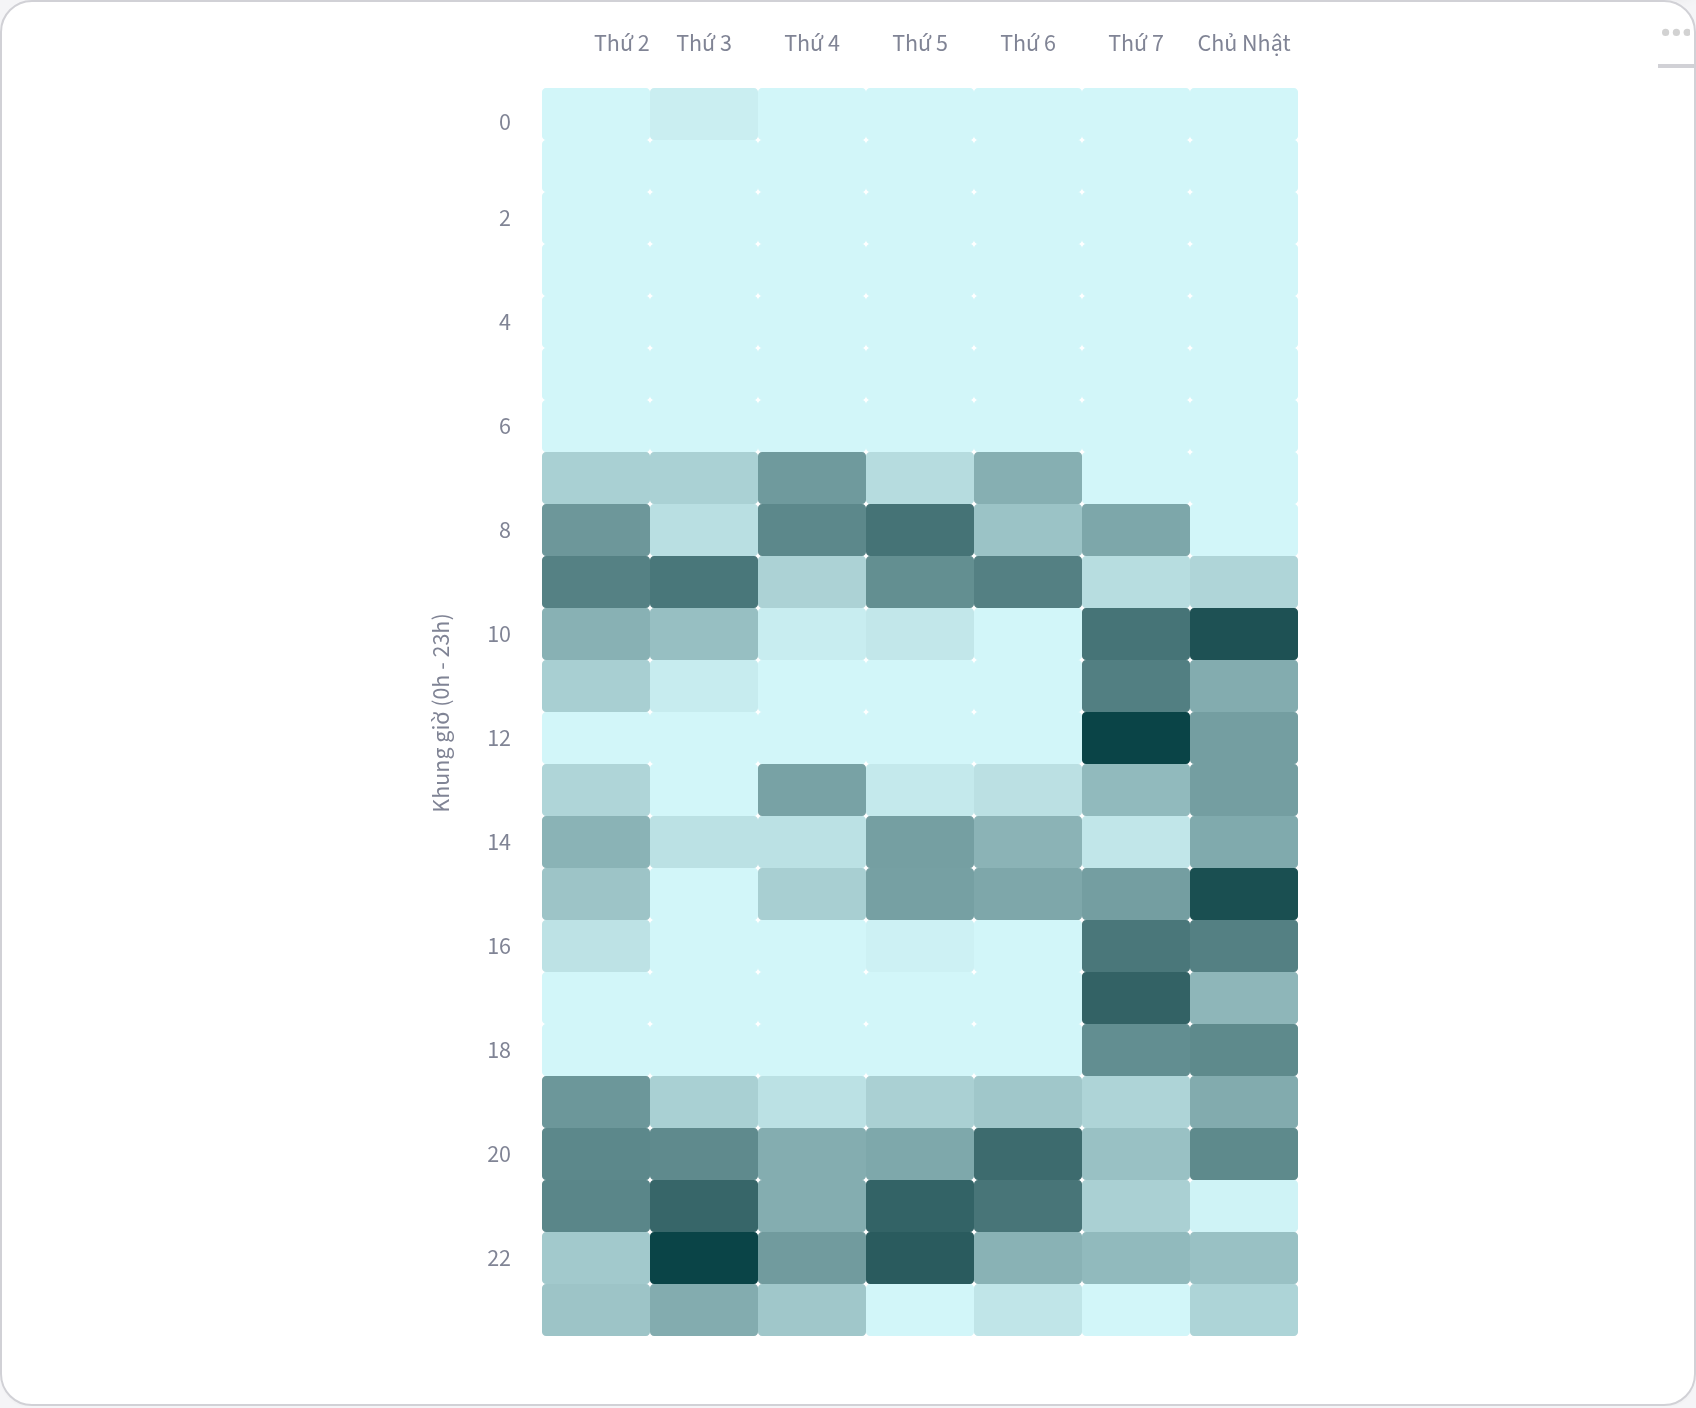
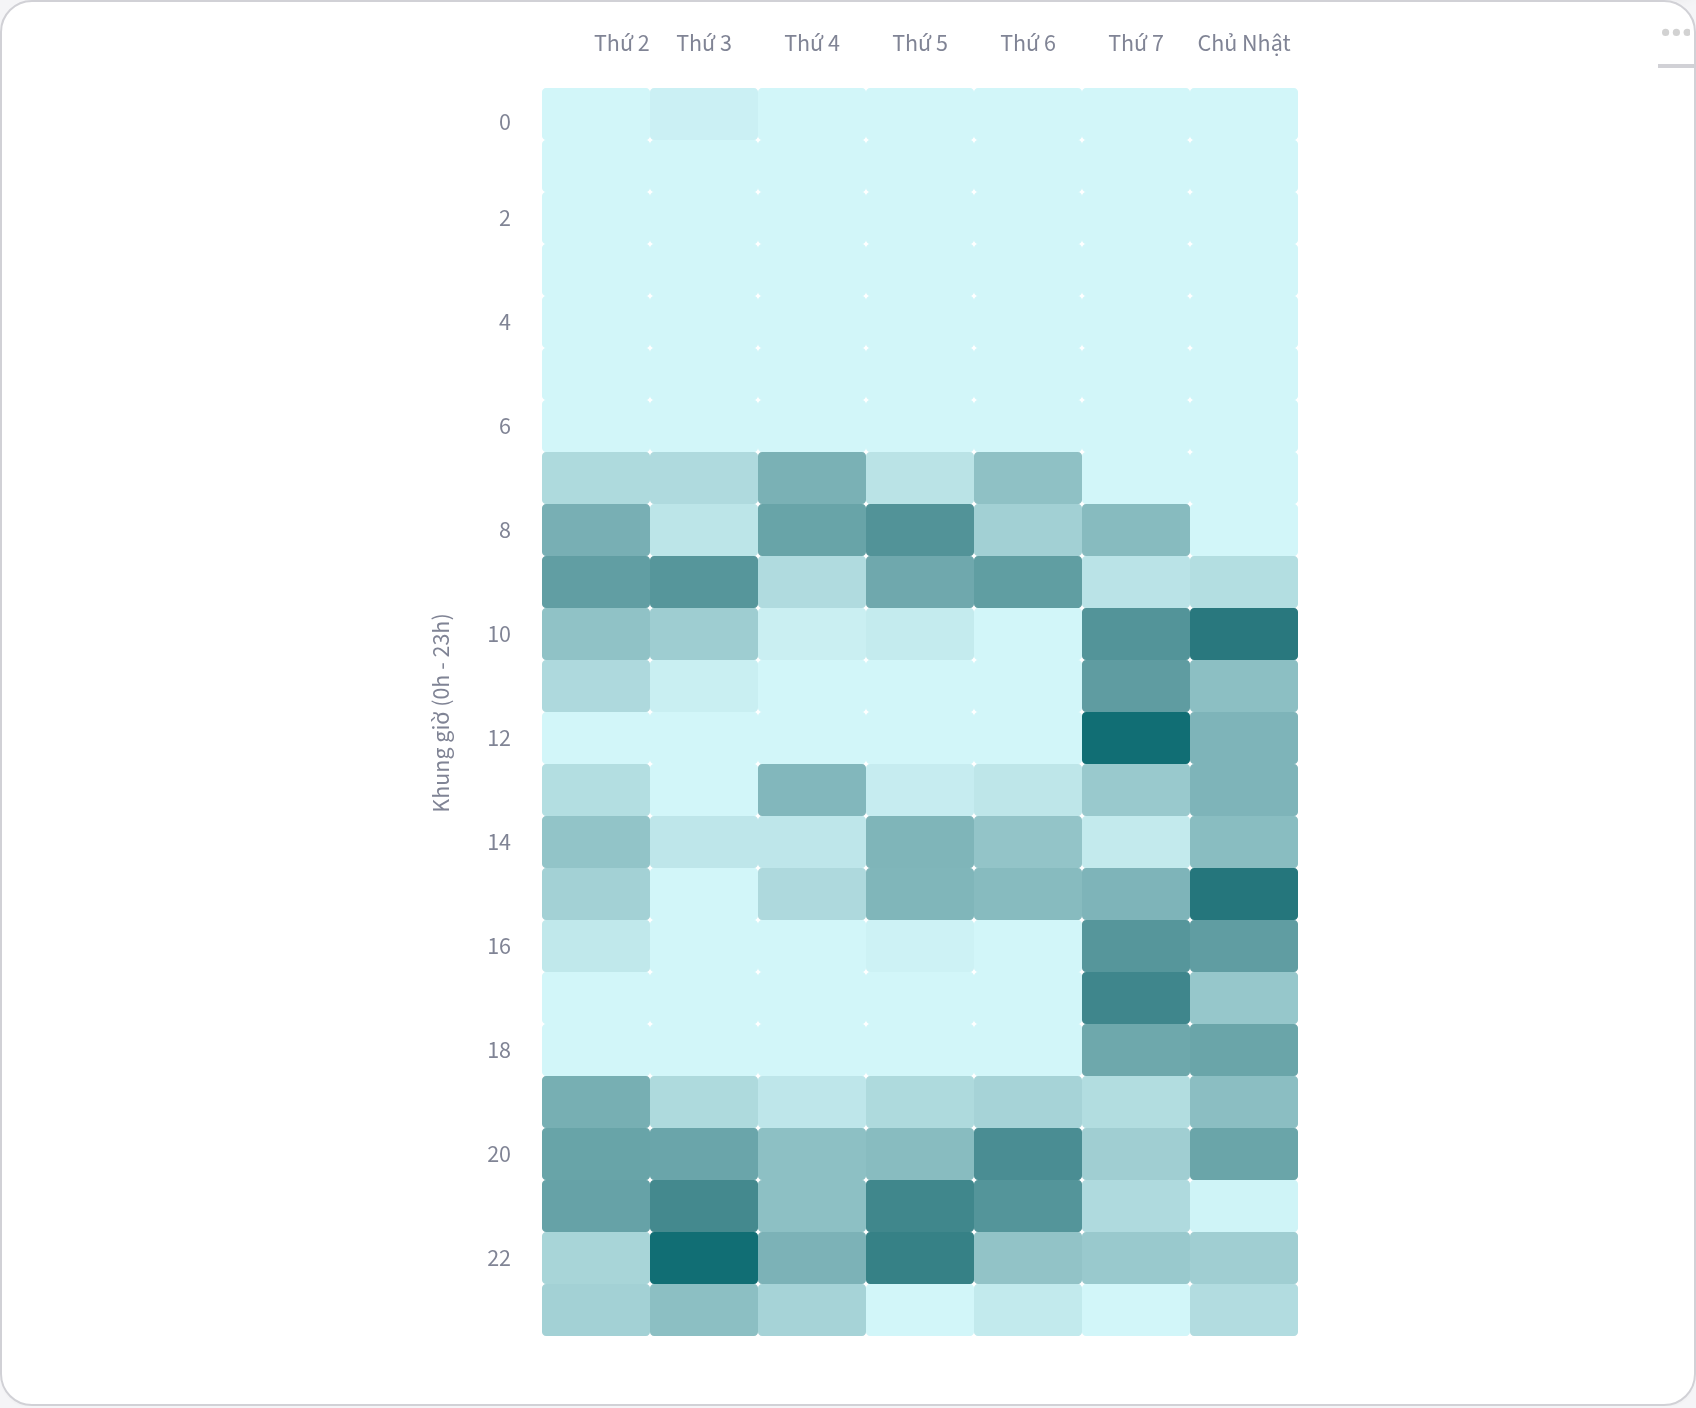
Làm dịu bớt mức đậm nhất trong dải màu teal cho hài hoà hơn
Giảm lightness thấp nhất (l_hi) của _teal_shades() từ 0.16 xuống 0.26 -- mức đậm nhất
trước đó gần như đen-teal (#0a4447), giờ dừng ở một sắc teal đậm nhưng vẫn rõ tông
(#116e74). Điều chỉnh lại ngưỡng cần chữ trắng trong Biểu đồ lịch (lvl >= 6 thay vì >= 5)
cho khớp độ sáng mới. Regenerate 3 ảnh minh hoạ liên quan (calendar, heatmap, session_bar).

Claude-Session: https://claude.ai/code/session_01T78vELrAjLb5uYg8S9dDtk

Changed region(s): [[0.3125, 0.5938, 0.7812, 0.9375], [0.3125, 0.3438, 0.7812, 0.5625]]

diff --git a/app.py b/app.py
@@ -129,7 +129,7 @@ def _hsl_hex(h, s, l):
 TEAL_HUE = 0.5096  # góc màu (hue) của accent #00a3ad, tính từ colorsys.rgb_to_hls
 
 
-def _teal_shades(n, l_lo=0.90, l_hi=0.16):
+def _teal_shades(n, l_lo=0.90, l_hi=0.26):
     """Sinh n sắc độ teal (cùng hue với accent #00a3ad) từ nhạt (l_lo) đến đậm (l_hi)
     -> dùng chung cho các bảng nhiệt (Biểu đồ lịch, Giờ tập trung theo thứ, thanh Phân bổ
     độ dài phiên) để đồng bộ một họ màu thay vì mỗi nơi một tông riêng."""
@@ -1293,8 +1293,8 @@ def render_calendar_grid(scope_df, full_df):
     )
     text = base.mark_text(baseline='middle', fontSize=10).encode(
         text='day:Q',
-        # lvl 5,6,7 (3 bậc teal đậm nhất) đã đủ tối để cần chữ trắng, còn lại chữ xám mờ
-        color=alt.condition("datum.lvl >= 5", alt.value('#ffffff'), alt.value('#a7a7ac')),
+        # lvl 6,7 (2 bậc teal đậm nhất) đã đủ tối để cần chữ trắng, còn lại chữ xám mờ
+        color=alt.condition("datum.lvl >= 6", alt.value('#ffffff'), alt.value('#a7a7ac')),
         tooltip=cal_tooltip
     )
     chart = (rect + text).properties(